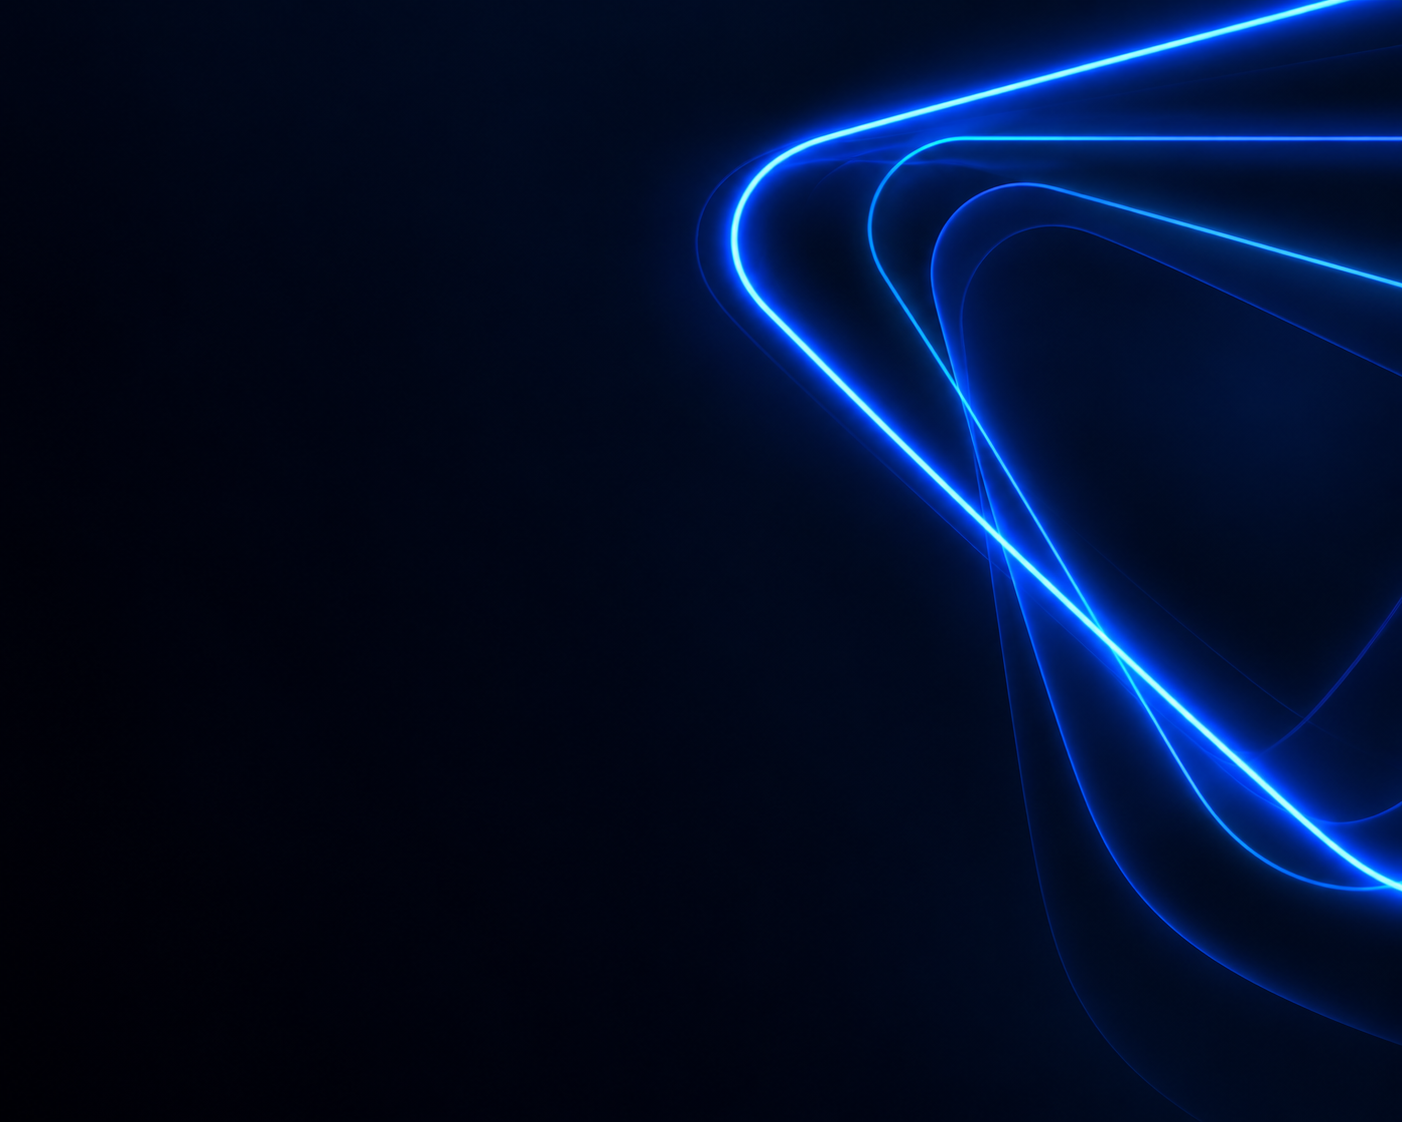
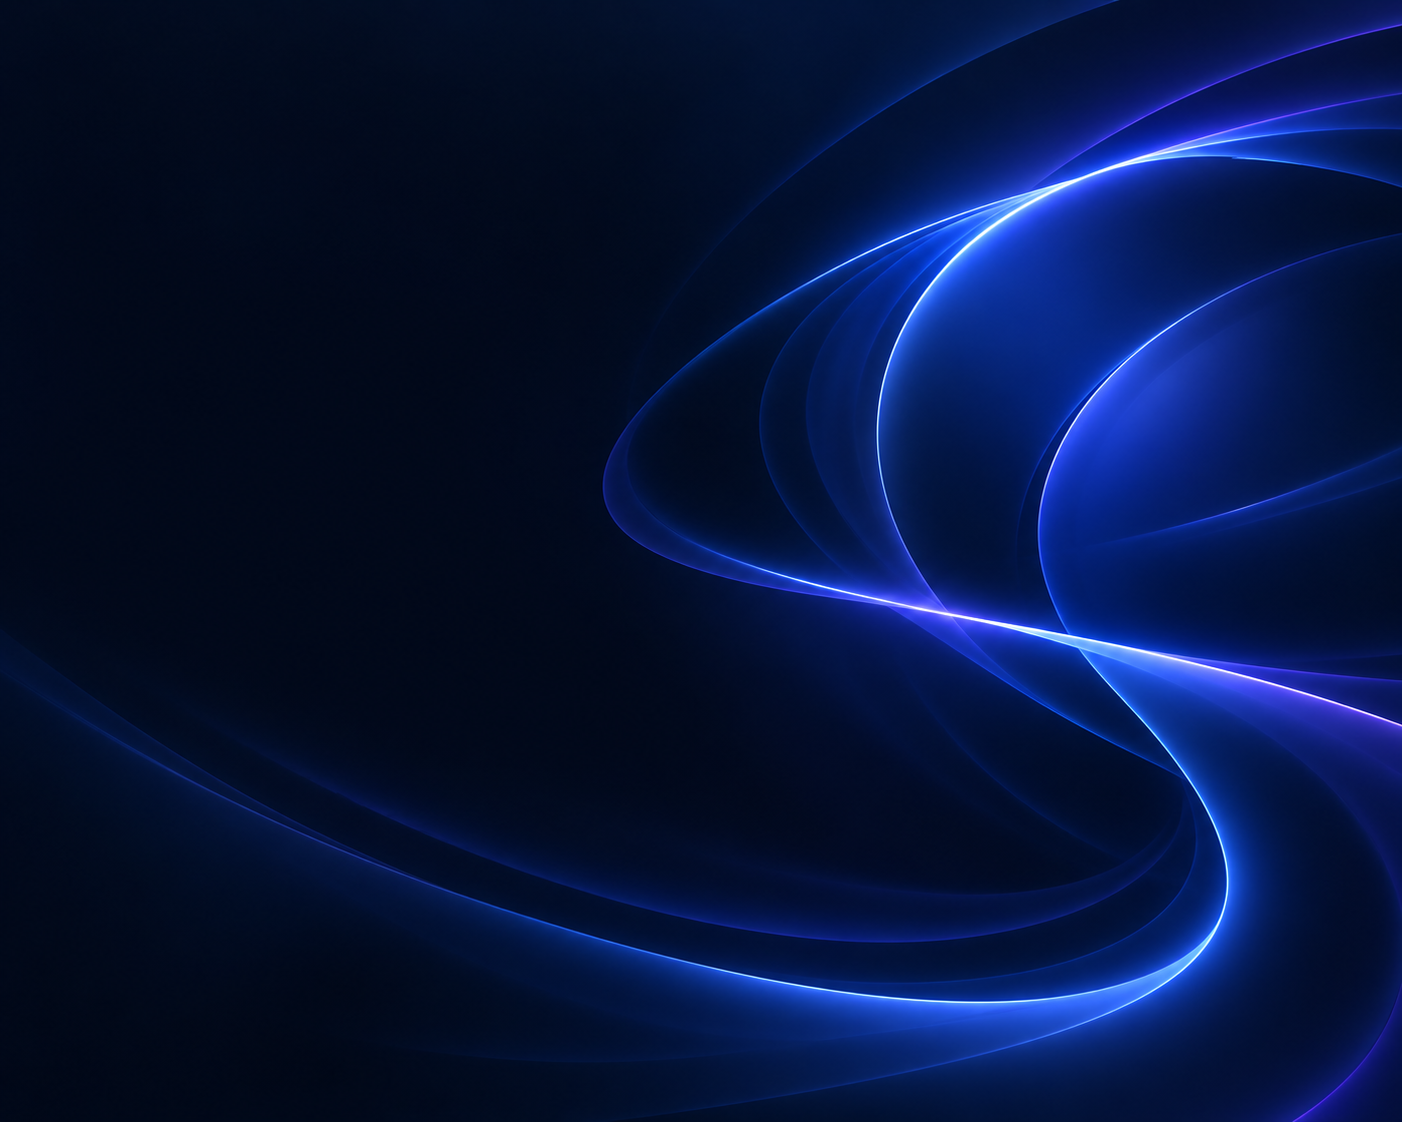
installer: fenêtre sans cadre DWM, coins arrondis en CSS, nouveau fond
`thickFrame: false` retire le contour clair que Windows 11 dessinait
autour de la fenêtre sans cadre ; comme il retire aussi l'arrondi, la
fenêtre devient transparente et `#app` porte les coins (8 px, le rayon
DWM, mesuré) avec un liseré d'un pixel à 7 %.

Boîte Emplacement : plus de contour, de flou ni d'ombre, un aplat
presque opaque. Barre de titre plus opaque (.74). Fond remplacé par la
seconde image fournie.

Claude-Session: https://claude.ai/code/session_01D1SAMwL2qNVEGKibhGA2tN

diff --git a/apps/windows/installer/style-window.css b/apps/windows/installer/style-window.css
@@ -2,8 +2,16 @@
    comme l'application complète. Ces surcharges restent séparées du décor afin
    que la densité de la barre et le gabarit puissent évoluer sans retoucher la
    scène de fond. */
+/* Fenêtre transparente (`transparent: true`, `main.ts`) : le fond vit sur
+   `#app`, qui porte l'arrondi des coins, et rien d'autre ne peint. */
+:root, body { background: transparent; }
 #app {
 	padding: 0;
+	border-radius: 8px;
+	overflow: hidden;
+	/* Le liseré d'un pixel que DWM dessinait, mais discret et de notre
+	   couleur : sans lui, le coin anti-aliasé se fond dans un fond sombre. */
+	box-shadow: inset 0 0 0 1px rgba(255, 255, 255, .07);
 	/* Fond PLAT : le halo radial du décor culminait pile sous la barre de
 	   titre et la dessinait en bande plus claire, comme un chrome posé sur la
 	   fenêtre. Chez la référence (Google Play Games), la barre n'est pas une
@@ -27,7 +35,7 @@
 	padding-left: 22px;
 	/* Comme la référence : une bande PLUS SOMBRE que le reste, mais
 	   translucide, pour que le halo du décor reste visible à travers. */
-	background: rgba(2, 6, 14, .58);
+	background: rgba(2, 6, 14, .74);
 }
 
 /* La coquille prend toute la fenêtre et son décor remonte sous la barre. */
@@ -145,6 +153,12 @@
 .nqi-location {
 	height: auto;
 	padding: 20px 28px 22px;
+	/* Comme la référence : un aplat presque opaque, sans contour, sans flou ni
+	   ombre ; le décor n'y transparaît qu'à peine. */
+	border: 0;
+	background: rgba(26, 34, 56, .90);
+	box-shadow: none;
+	backdrop-filter: none;
 }
 .nqi-location-head {
 	display: flex;

diff --git a/apps/windows/installer/main.ts b/apps/windows/installer/main.ts
@@ -344,9 +344,17 @@ function creerFenetre(): void {
 		maxWidth: 920,
 		maxHeight: 640,
 		frame: false,
+		/* Sans `thickFrame`, Windows 11 ne dessine plus son contour DWM d'un
+		   pixel clair autour de la fenêtre (visible sur fond noir). La fenêtre
+		   n'est pas redimensionnable : la bordure de saisie ne manque à rien. */
+		thickFrame: false,
+		/* Sans `thickFrame`, Windows 11 n'arrondit plus les coins non plus :
+		   la fenêtre devient TRANSPARENTE et c'est le CSS de `#app` qui porte
+		   l'arrondi (`style-window.css`). Pas de `backgroundColor` : il
+		   peindrait un rectangle opaque sous les coins. */
+		transparent: true,
 		resizable: false,
 		show: false,
-		backgroundColor: "#111318",
 		icon: join(__dirname, "icon.png"),
 		title: t("installer.windowTitle"),
 		webPreferences: {
